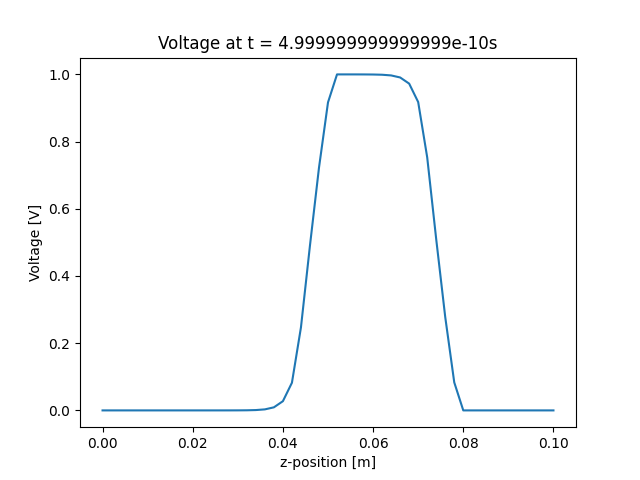
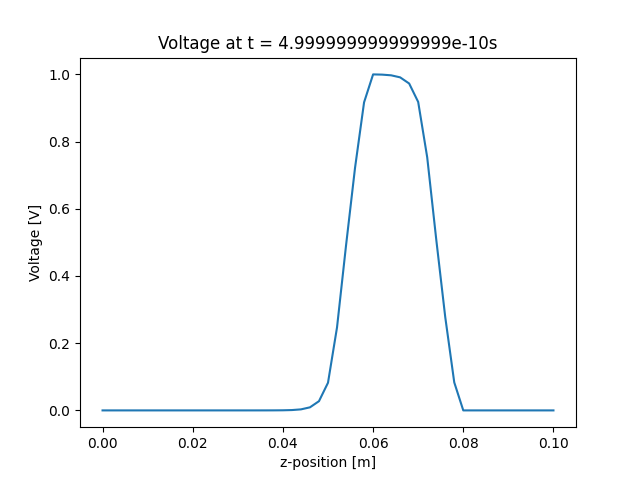
some changes

diff --git a/Electromagnetism_I/Project/python_code/io_manager.py b/Electromagnetism_I/Project/python_code/io_manager.py
@@ -1,74 +1,12 @@
 import numpy as np
-import time
 
 def readdata_numpy(file, performance=False):
     """
     file: file to be loaded
-    performance: if True prints the programm and process time
     """
-
-    start_time = time.time()
-    start_process = time.clock()
 
     with open(file, 'r') as f:
         parameters = np.loadtxt(file)
         f.close()
 
-    if performance:
-        print("programm time: ", time.time() - start_time)
-        print("process time: ", time.clock() - start_process)
-
     return parameters
-
-def readdata(file, performance=False):
-    """
-    file: file to be loaded
-    performance: if True prints the programm and process time
-    """
-
-    start_time = time.time()
-    start_process = time.clock()
-
-    parameters = []
-
-    with open(file, 'r') as f:
-        f.readline()
-        parameters = np.loadtxt(file)
-        for i in range(len(parameters)):
-            parameters[i] = float(f.readline().split(' ')[0])
-        f.close()
-
-    if performance:
-        print("programm time: ", time.time() - start_time)
-        print("process time: ", time.clock() - start_process)
-
-    return parameters
-
-
-""""
-Little performance analysis (for one small documents, i.e. example.txt):
-
-    - Standard python run:
-        > first run:
-            programm time:  0.005000591278076172
-            process time:  0.005152900000000016
-        > second run:
-            programm time:  0.004998922348022461
-            process time:  0.005046500000000009
-        > third run:
-            programm time:  0.0040035247802734375
-            process time:  0.005018999999999996
-    - Numpy run:
-        > first run:
-            programm time:  0.005001068115234375
-            process time:  0.004916300000000012
-        > second run:
-            programm time:  0.004993438720703125
-            process time:  0.005008699999999977
-        > third run:
-            programm time:  0.005002260208129883
-            process time:  0.005027400000000015
-
-Conclusion:
-    No big difference can be found. Standard python has a small better performance at the programm time while numpy has a small better performance at process time. 
-"""

diff --git a/Electromagnetism_I/Project/python_code/plot_manager.py b/Electromagnetism_I/Project/python_code/plot_manager.py
@@ -1,28 +1,51 @@
 import matplotlib.pyplot as plt
+from matplotlib.animation import FuncAnimation
 import numpy as np
 
-def plot_V_at_z(V, t, Z, n):
+def plot_time(V, t, Z=0, n=None, name="exampletime.png"):
 
-    v = V[n,:]
+    if n:
+        V = V[n,:]
 
     fig, ax = plt.subplots()
-    ax.plot(t, v)
+    ax.plot(t, V)
     ax.set_xlabel('time [s]')
     ax.set_ylabel('Voltage [V]')
     ax.set_title(f'Voltage at z = {Z}m')
-    plt.savefig("exampletime.png")
+    plt.savefig(name)
 
 
-def plot_V_at_t(V, z, T, m):
-
-    v = V[:,m]
+def plot_space(V, z, T, m, name="exampleposition.png"):
 
     fig, ax = plt.subplots()
-    ax.plot(z, v)
+    ax.plot(z, V[:,m])
     ax.set_xlabel('z-position [m]')
     ax.set_ylabel('Voltage [V]')
     ax.set_title(f'Voltage at t = {T}s')
-    plt.savefig("exampleposition.png")
+    plt.savefig(name)
+
+
+def plot_animation(s, z, t):
+    """
+    s: signal
+    z: space coordinate
+    t: time
+    """
+    fig, ax = plt.subplots()
+    ax.set_xlabel('z-position [m]')
+    ax.set_ylabel('Voltage [V]')
+    M = len(t)
+
+    # function that draws each frame of the animation
+    def animate(m):
+
+        ax.clear()
+        ax.plot(s[:,m], z)
+        ax.set_ylim([np.min(s)-abs(np.std(s)),np.max(s)+abs(np.std(s))])
+
+    anim = FuncAnimation(fig, animate, frames=20, interval=500, repeat=False)
+
+    anim.save('animation')
 
 if __name__ == "__main__":
 
@@ -43,5 +66,6 @@ if __name__ == "__main__":
     plt.plot(t, eg(t))
     plt.show()
 
+    
 
 

diff --git a/Electromagnetism_I/Project/python_code/leapfrog_scheme.py b/Electromagnetism_I/Project/python_code/leapfrog_scheme.py
@@ -30,6 +30,7 @@ def leapfrog(parameters):
 
     dz = l/N
     alpha = v*dt/dz
+    print(f'alpha value: {alpha}')
     rg, rl = Zc/Zg, Zc/Zl# adjusted Zc with respect to Zg and Zl
     C1, C2 = (1-alpha*rg)/(1+alpha*rg), 2*alpha/(1+alpha*rg) # constants for BC at z = 0
     C3, C4 = (1-alpha*rl)/(1+alpha*rl), 2*alpha/(1+alpha*rl) # constants for BC at z = N*dz
@@ -43,7 +44,7 @@ def leapfrog(parameters):
 
     # define source signal
 
-    t1, t2, t3, t4 = d, d+tr, d+tr+Tb, d+2*tr+Tb
+    t1, t2, t3, t4 = d, d+tr, d+Tb, d+tr+Tb
     eg = lambda t: A/tr*(t-t1)*B(t1, t2)(t) + A*B(t2,t4)(t) - A/tr*(t-t3)*B(t3,t4)(t)
 
     for m in range(M-1):
@@ -57,4 +58,4 @@ def leapfrog(parameters):
     t = dt*np.arange(M+1) # time for plotting
     z = dz*np.arange(N+1) # space for plotting
     
-    return I, V, z, t
+    return I, V, z, t, eg

diff --git a/Electromagnetism_I/Project/python_code/main.py b/Electromagnetism_I/Project/python_code/main.py
@@ -21,7 +21,7 @@ if __name__ == "__main__":
         file = input("Please enter a file: ")
 
     parameters = io.readdata_numpy(file)
-    I, V, z, t = ls.leapfrog(parameters[:-2])
+    I, V, z, t, eg = ls.leapfrog(parameters[:-2])
 
     """
     Z:  position of the sensor [m]
@@ -29,8 +29,10 @@ if __name__ == "__main__":
     """
     Z, T = parameters[-2], parameters[-1]
     n, m = int(Z/z[1]), int(T)
-    pm.plot_V_at_t(V,z,t[1]*T,m)
-    pm.plot_V_at_z(V,t,Z,n)
+    pm.plot_space(V,z,t[1]*T,m)
+    pm.plot_time(V,t,Z,n)
+    pm.plot_time(eg(t[:50]), t[:50], name="initial bit")
+    #pm.plot_animation(V, z, t)
 
 # hello this is the end of the code
 
